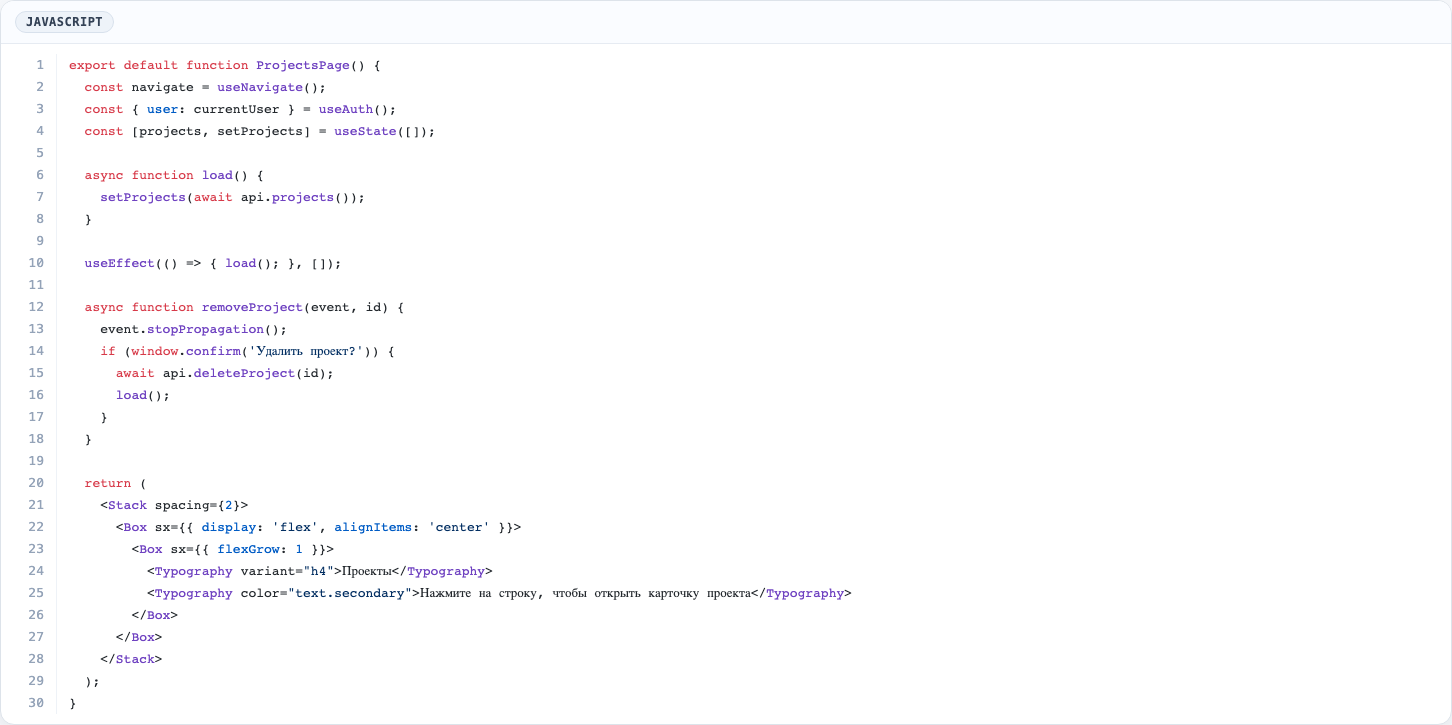
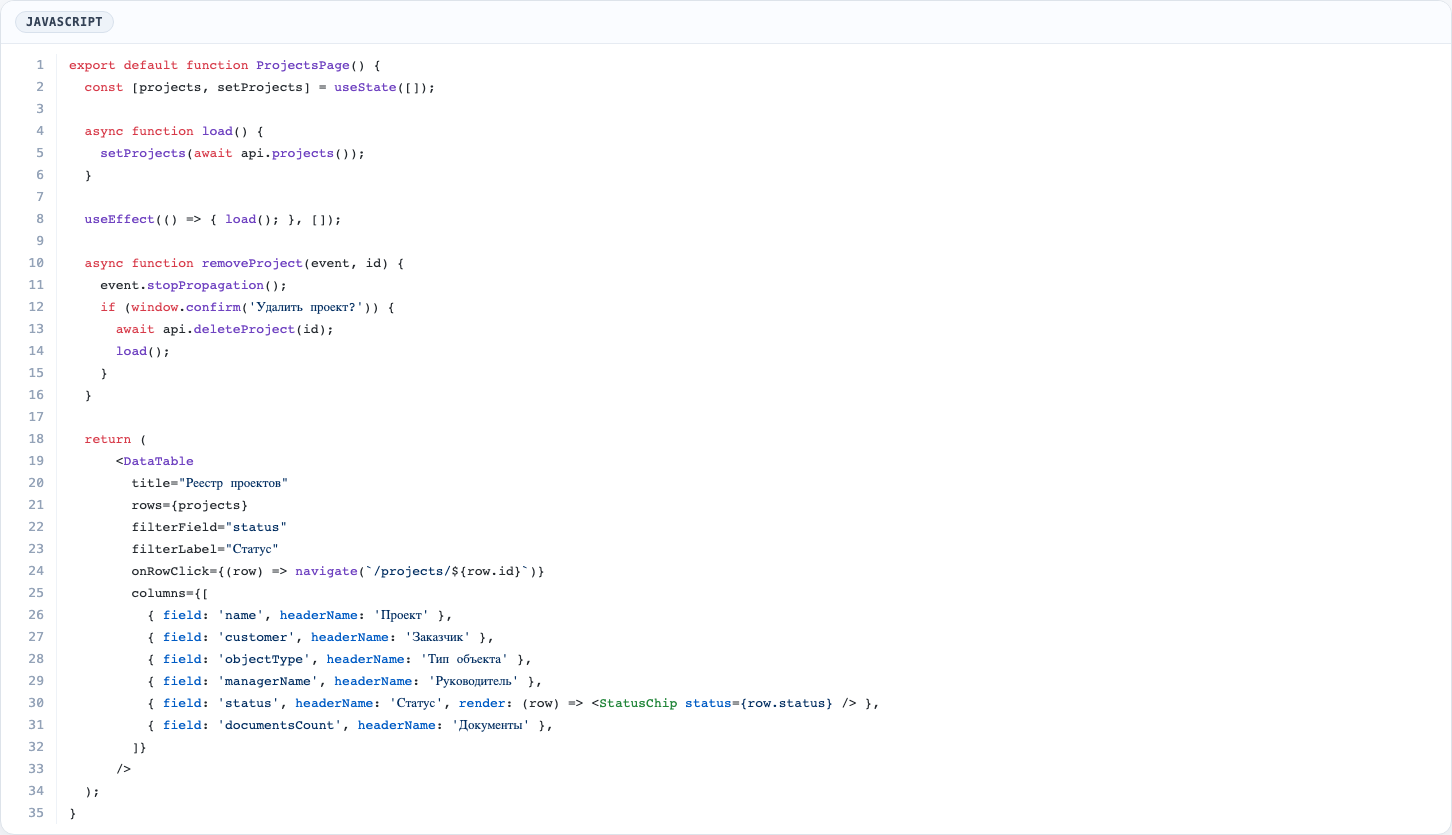
docs(fragments): regenerate diploma fragments and screenshots

diff --git a/fragments/Fragments.md b/fragments/Fragments.md
@@ -266,8 +266,6 @@ public DashboardResponse getDashboard() {
 
 ```javascript
 export default function ProjectsPage() {
-  const navigate = useNavigate();
-  const { user: currentUser } = useAuth();
   const [projects, setProjects] = useState([]);
 
   async function load() {
@@ -285,14 +283,21 @@ export default function ProjectsPage() {
   }
 
   return (
-    <Stack spacing={2}>
-      <Box sx={{ display: 'flex', alignItems: 'center' }}>
-        <Box sx={{ flexGrow: 1 }}>
-          <Typography variant="h4">Проекты</Typography>
-          <Typography color="text.secondary">Нажмите на строку, чтобы открыть карточку проекта</Typography>
-        </Box>
-      </Box>
-    </Stack>
+      <DataTable
+        title="Реестр проектов"
+        rows={projects}
+        filterField="status"
+        filterLabel="Статус"
+        onRowClick={(row) => navigate(`/projects/${row.id}`)}
+        columns={[
+          { field: 'name', headerName: 'Проект' },
+          { field: 'customer', headerName: 'Заказчик' },
+          { field: 'objectType', headerName: 'Тип объекта' },
+          { field: 'managerName', headerName: 'Руководитель' },
+          { field: 'status', headerName: 'Статус', render: (row) => <StatusChip status={row.status} /> },
+          { field: 'documentsCount', headerName: 'Документы' },
+        ]}
+      />
   );
 }
 ```